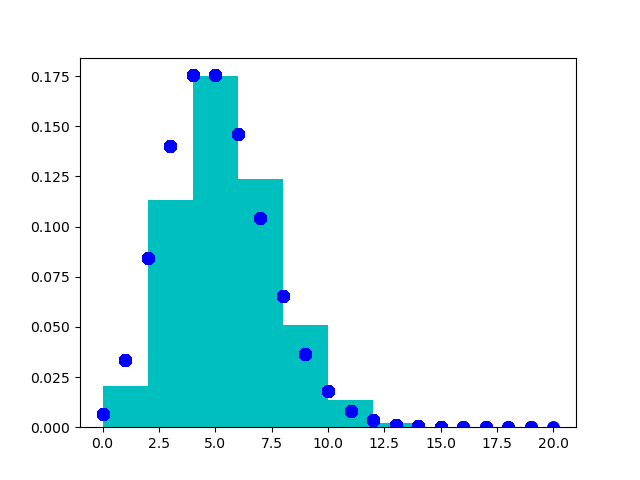
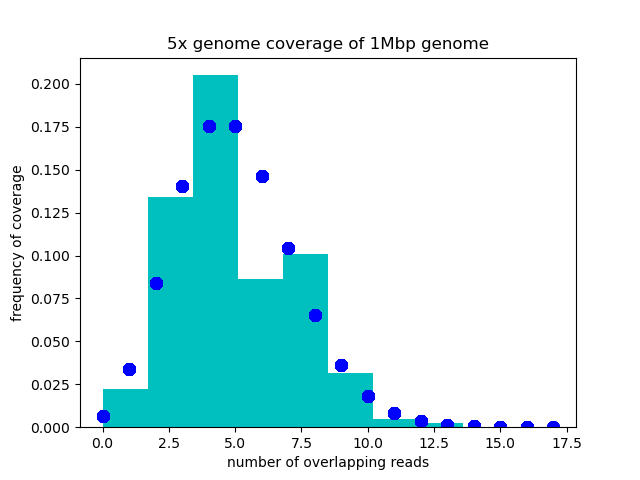
labeled images

diff --git a/week1-homework/exercise14.py b/week1-homework/exercise14.py
@@ -19,6 +19,9 @@ ax.hist(x, density=True, color = 'c')
 mu = 15
 #here mu is lambda
 ax.plot(x, poisson.pmf(x, mu), 'bo', ms=8)
+ax.set_xlabel("number of overlapping reads")
+ax.set_ylabel("frequency of coverage")
+ax.set_title("15x genome coverage of 1Mbp genome")
 plt.savefig("ex1_4.png")
 plt.close(fig)
 

diff --git a/week1-homework/exercise12.py b/week1-homework/exercise12.py
@@ -27,6 +27,9 @@ ax.hist(x, density=True, color = 'c')
 mu = 5
 #here mu is lambda
 ax.plot(x, poisson.pmf(x, mu), 'bo', ms=8)
+ax.set_xlabel("number of overlapping reads")
+ax.set_ylabel("frequency of coverage")
+ax.set_title("5x genome coverage of 1Mbp genome")
 plt.savefig("ex1_2.png")
 plt.close(fig)
 
